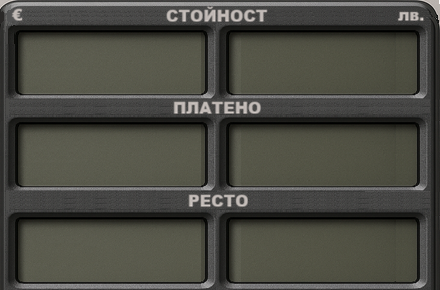
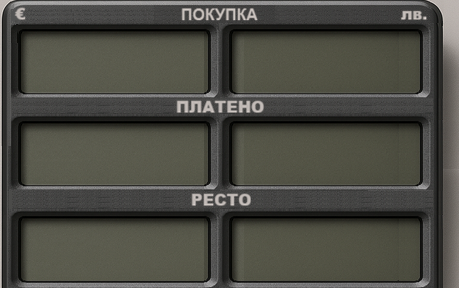
ver 1.6 Resto

Changed region(s): [[0.0, 0.0, 1.0, 1.0]]

diff --git a/cx-calc/resto/mainAll.js b/cx-calc/resto/mainAll.js
@@ -60,8 +60,8 @@ var MainPointsO = {
     StatusSize: { x: 45, y: 15 },
     CurrencyOffset: { x: -40, y: 15 },
     CurrencyLevOffset: { x: -40, y: 15 },
-    Resto: { x: 13, y: -108 },
-    RestoSize: { x: 440, y: 290 },
+    Resto: { x: 11, y: -108 },
+    RestoSize: { x: 459, y: 288 },
     Fields: { x: 30, y: -76 },
     FieldsSize: { x: 190, y: 60 },
     FldGaps: { x: 22, y: 34 },
@@ -2507,6 +2507,11 @@ const allTips = [
         id: 'tip-resto',
         text: 'Включва модул <b>Ресто</b>, предназначен за пресмятане на рестото при смесено плащане в лева и евро.',
         target: 'L',
+    },
+    {
+        id: 'tip-video',
+        text: '<a href="https://youtu.be/N_L_HIseMb4" target="_blank">Кликнете този линк и гледайте кратко видео за основните функции на калкулатора.</a>',
+        target: '6',
     }
 ];
 

diff --git a/cx-calc/resto/index.html b/cx-calc/resto/index.html
@@ -644,7 +644,7 @@
         }, 10000); // 10 секунди 
     </script>
 
-    <script src="mainnAll.js"></script>
+    <script src="mainAll.js"></script>
     <script src="resto.js?v=1"></script>
 </body>
 
